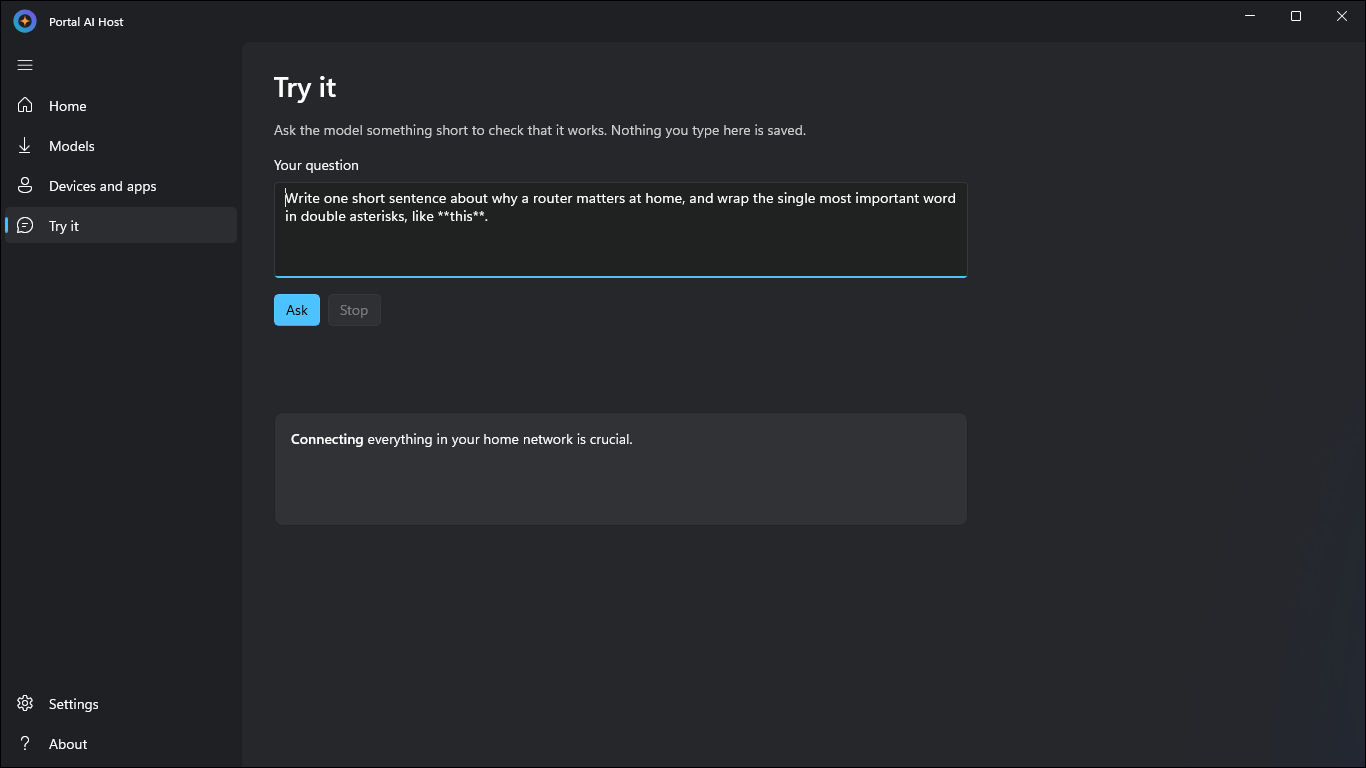
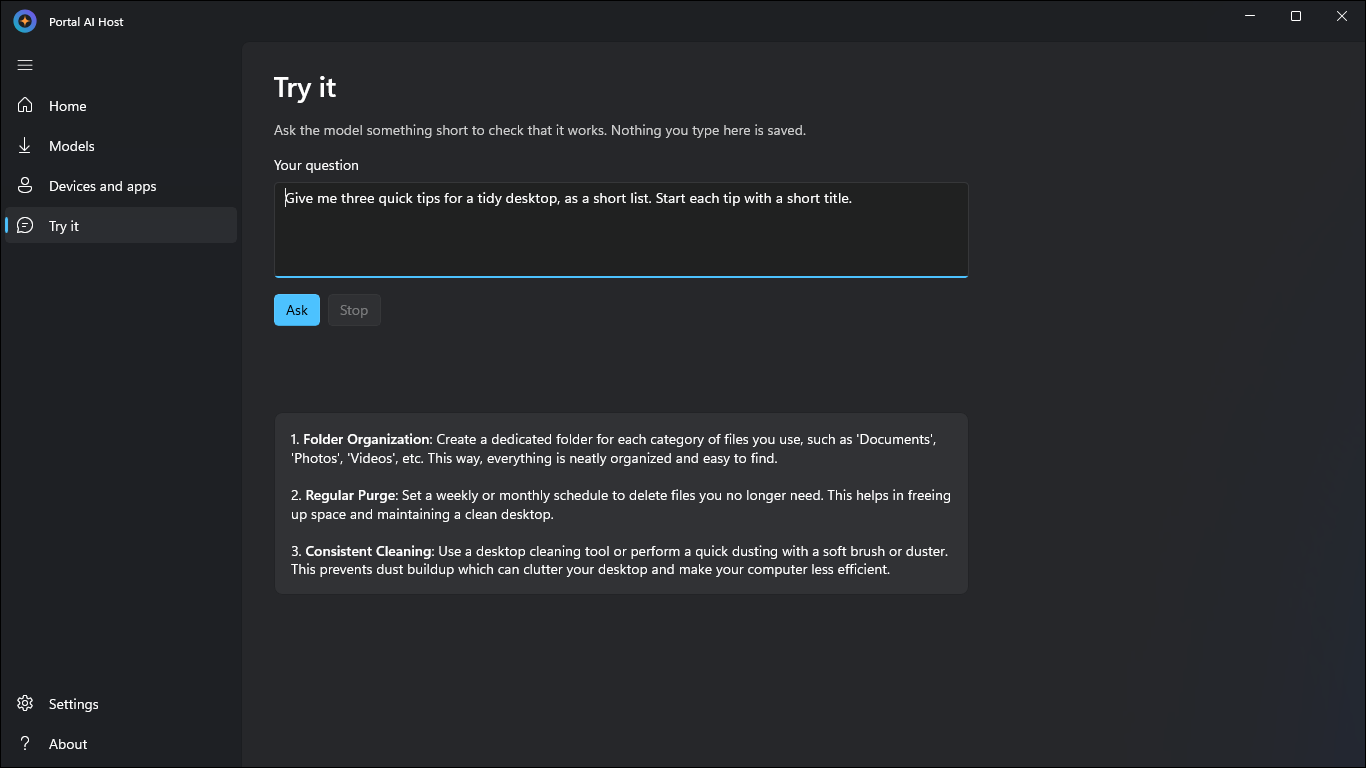
Store screenshots 1.0.1: formatted Try it answer, drop the access prompt image

Changed region(s): [[0.2152, 0.5625, 0.7072, 0.75], [0.2152, 0.25, 0.7072, 0.3125]]

diff --git a/docs/store/screenshots.md b/docs/store/screenshots.md
@@ -13,7 +13,7 @@ Capture after the new look is final. Rules (Store lessons):
 
 Real captures of this build, real hardware detection and a real model answering (no `--fake`), fresh test data
 roots, no personal paths. Files are in `docs/store/screenshots/1.0.1/`; each has a `-dark` copy. Captions are up
-to 200 characters. Images 1 to 3 are the Welcome window centred on a neutral 1366x768 canvas; images 4 to 7 are the
+to 200 characters. Images 1 to 3 are the Welcome window centred on a neutral 1366x768 canvas; images 4 to 6 are the
 main window at exactly 1366x768 (host version 1.0.1, a small test model loaded).
 
 | # | File | What it shows | Caption |
@@ -22,16 +22,15 @@ main window at exactly 1366x768 (host version 1.0.1, a small test model loaded).
 | 2 | `02-pick-a-model.png` | Welcome step 2, "Pick a model": the recommended model for this PC with its reason, size and your PC's memory, graphics and free disk space | It checks your PC and recommends the model that suits it best, with the size and how fast it should answer. Download it now or choose later. |
 | 3 | `03-where-it-lives.png` | Welcome step 3: where it lives in the tray, the "you will be asked" note and the Start with Windows switch | It waits quietly in the tray and always asks before a Portal app can use it. Starting with Windows is your choice. |
 | 4 | `04-home.png` | Home: status "Ready", host version 1.0.1, the active model loaded, no apps connected yet, no requests waiting | Home shows at a glance that your AI model is loaded and ready, which model is in use, and whether any apps are waiting for your say-so. |
-| 5 | `05-try-it-answer.png` | Try it after an answer: the question, and the reply with its key word shown in bold; "Nothing you type here is saved" | Check that it works: ask something short and read the reply here. Nothing you type in Try it is saved. |
+| 5 | `05-try-it-answer.png` | Try it after an answer: a short question and a formatted reply, a numbered list with bold titles; "Nothing you type here is saved" | Check that it works: ask something short and read the reply here. Nothing you type in Try it is saved. |
 | 6 | `06-models.png` | Models: the list for this PC, the best choice marked, size, speed and quality for each, a Download button, and the "A better model is available" note | Models lists what suits your PC, with size, speed and quality. The best choice is marked, and you are told when a better model is available. |
-| 7 | `07-approval-prompt.png` | The access prompt over Home: who is asking, the reason given, the verified publisher line, and Allow / Don't allow / Decide later | Apps have to ask first. You see who is asking and why, and you choose Allow, Don't allow or Decide later. |
 
 Notes for Partner Center:
-- The prompt in image 7 comes from a real request made by PowerShell, so it shows a real verified publisher.
+- There is no access-prompt image in this set: a test app that is not a Portal app correctly reads "Not a Portal app", which is not a good Store image.
 - Settings is not recaptured: its page, text and layout are unchanged since 1.0, so the 1.0 Settings image is
   still accurate for 1.0.1. A new capture from an unpackaged test build would show a test folder path and the
   "only available in the installed app" note, which the Store build does not have.
-- The 1.0 images of Home, Try it and the prompt show host version 1.0.0 and "Deny"; use the 1.0.1 images above
+- The 1.0 images of Home and Try it show host version 1.0.0 and "Deny"; use the 1.0.1 images above
   instead.
 
 ## Plan for a full set
